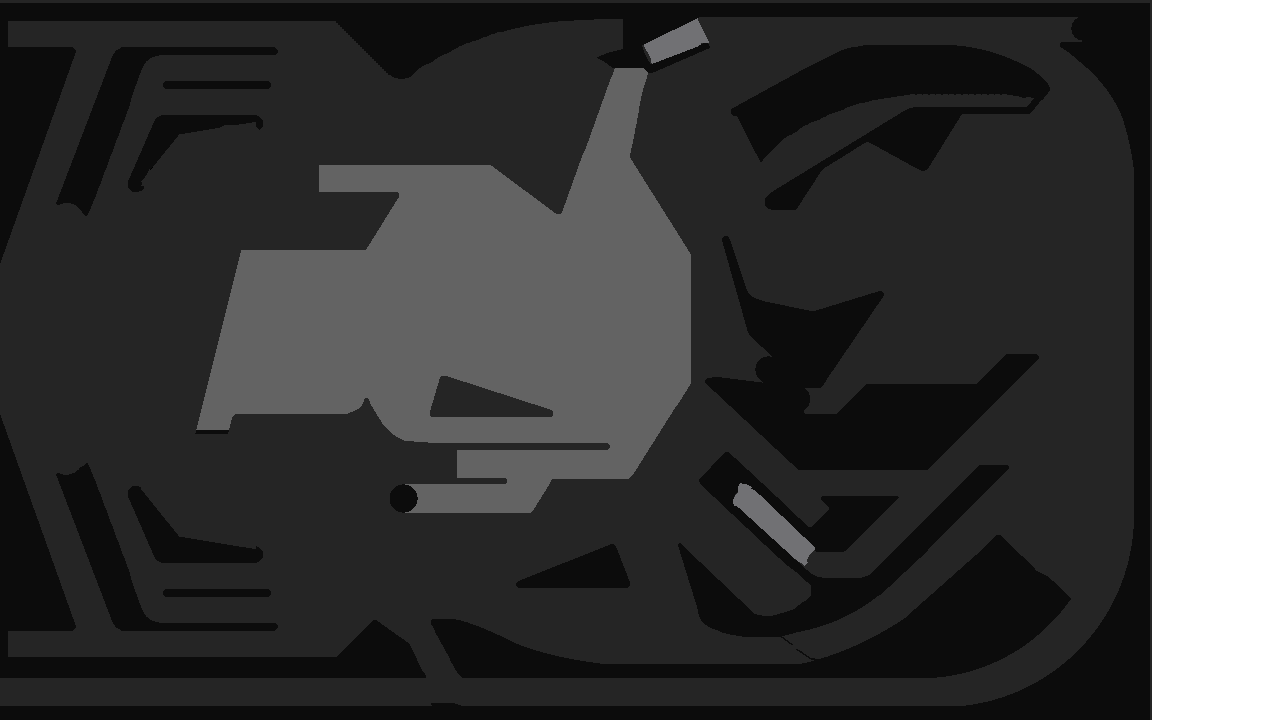
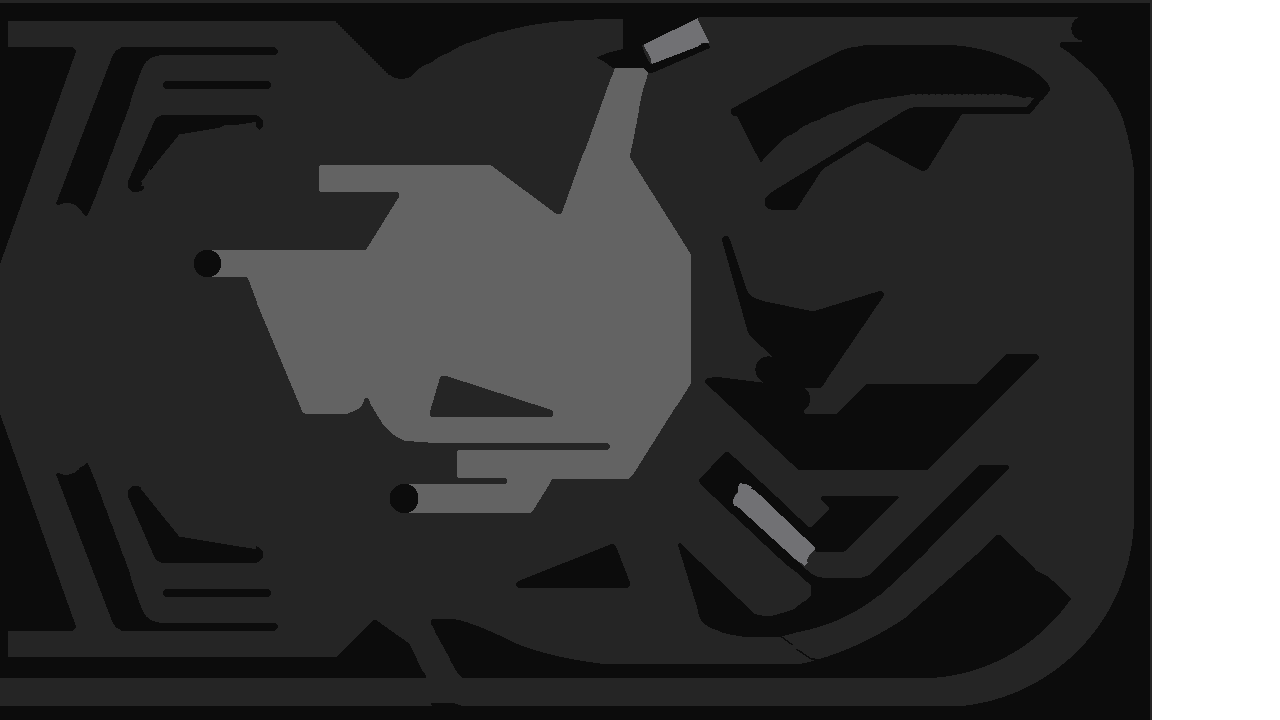
changer underlayer

Changed region(s): [[0.1562, 0.3361, 0.25, 0.6111]]

diff --git a/games/pinball/source/layer.h b/games/pinball/source/layer.h
@@ -22,7 +22,7 @@ class Layer {
         int m_layerID;
 
         // Underlayer
-        vector<float> m_underOuter = {693.0, 6.9, 691.5, 7.8, 682.4, 11.0, 673.2, 14.2, 665.9, 17.9, 658.5, 21.7, 649.9, 26.2, 641.2, 30.7, 636.4, 34.1, 631.5, 37.4, 626.0, 42.0, 620.5, 46.6, 615.8, 49.6, 611.1, 52.5, 607.6, 60.0, 604.1, 67.5, 603.4, 72.0, 602.8, 76.5, 590.8, 110.5, 578.8, 144.5, 577.4, 146.7, 576.0, 148.9, 576.0, 150.4, 576.0, 151.8, 574.5, 154.6, 573.0, 157.5, 442.8, 158.0, 312.5, 158.5, 312.5, 178.5, 312.5, 198.5, 350.1, 199.0, 387.8, 199.5, 374.3, 221.2, 360.8, 243.0, 298.9, 243.0, 237.0, 243.0, 235.7, 245.2, 234.3, 247.5, 214.6, 326.5, 194.9, 405.5, 189.9, 423.5, 184.8, 441.5, 182.9, 448.0, 181.1, 454.5, 179.9, 459.3, 178.8, 464.0, 180.0, 465.5, 181.2, 467.0, 204.9, 467.0, 228.6, 467.0, 229.8, 465.8, 231.0, 464.6, 231.0, 457.2, 231.0, 449.8, 232.6, 443.6, 234.1, 437.5, 236.6, 429.2, 239.1, 421.0, 305.5, 421.0, 371.8, 421.0, 379.4, 433.2, 387.0, 445.5, 388.6, 447.7, 390.3, 450.0, 421.1, 450.0, 452.0, 450.0, 452.0, 464.5, 452.0, 479.0, 418.8, 479.2, 385.5, 479.5, 385.5, 499.0, 385.5, 518.5, 460.1, 518.8, 534.7, 519.0, 537.2, 517.0, 539.7, 515.1, 549.4, 499.6, 559.1, 484.1, 597.4, 483.8, 635.8, 483.5, 637.9, 481.0, 640.0, 478.5, 656.7, 452.0, 673.4, 425.5, 678.5, 418.0, 683.7, 410.5, 690.8, 398.9, 698.0, 387.4, 698.0, 318.9, 698.0, 250.5, 668.6, 203.8, 639.3, 157.1, 639.8, 151.8, 640.2, 146.5, 642.1, 138.2, 644.0, 129.9, 644.0, 127.2, 644.0, 124.4, 645.6, 118.5, 647.2, 112.5, 648.1, 105.5, 649.0, 98.5, 652.1, 87.7, 655.3, 76.9, 661.3, 72.4, 667.3, 67.8, 678.9, 61.7, 690.5, 55.7, 696.5, 54.3, 702.5, 53.0, 707.5, 51.8, 712.5, 50.6, 931.4, 50.1, 1150.3, 49.5, 1151.3, 47.8, 1152.4, 46.2, 1151.1, 44.6, 1149.8, 43.0, 923.1, 43.0, 696.3, 43.0, 676.3, 52.9, 656.3, 62.8, 652.5, 67.4, 648.7, 72.1, 645.8, 80.8, 643.0, 89.5, 641.0, 99.5, 639.0, 109.5, 634.4, 133.3, 629.8, 157.0, 637.1, 168.8, 644.4, 180.5, 667.7, 217.5, 691.0, 254.5, 691.0, 319.0, 691.0, 383.5, 683.6, 395.0, 676.2, 406.5, 654.6, 440.5, 633.1, 474.6, 630.7, 476.8, 628.4, 479.0, 590.4, 479.0, 552.3, 479.0, 546.2, 489.3, 540.1, 499.5, 535.8, 506.0, 531.5, 512.5, 460.8, 512.8, 390.0, 513.0, 390.0, 498.5, 390.0, 484.0, 448.3, 483.8, 506.5, 483.5, 506.5, 481.0, 506.5, 478.5, 481.8, 478.2, 457.0, 478.0, 457.0, 464.0, 457.0, 450.0, 532.6, 449.8, 608.3, 449.5, 609.3, 447.8, 610.4, 446.2, 609.1, 444.6, 607.8, 443.0, 520.8, 443.0, 433.8, 443.0, 419.1, 441.9, 404.5, 440.8, 398.9, 437.8, 393.3, 434.9, 387.8, 429.2, 382.3, 423.5, 376.7, 414.3, 371.1, 405.2, 369.6, 401.5, 368.0, 397.8, 366.3, 398.2, 364.5, 398.5, 364.0, 406.0, 363.5, 413.5, 299.4, 413.8, 235.3, 414.0, 233.5, 416.0, 231.8, 417.9, 228.2, 429.7, 224.7, 441.5, 224.2, 450.7, 223.8, 460.0, 205.5, 460.0, 187.1, 460.0, 188.2, 456.7, 189.2, 453.5, 191.2, 446.1, 193.1, 438.6, 195.4, 431.6, 197.7, 424.5, 219.5, 337.2, 241.2, 250.0, 303.6, 250.0, 365.9, 250.0, 382.5, 223.3, 399.1, 196.6, 398.8, 194.6, 398.5, 192.5, 358.8, 192.2, 319.0, 192.0, 319.0, 178.5, 319.0, 165.0, 404.8, 165.0, 490.6, 165.0, 523.5, 189.5, 556.4, 214.0, 558.8, 214.0, 561.1, 214.0, 562.4, 210.7, 563.8, 207.5, 572.5, 183.0, 581.2, 158.5, 584.0, 152.0, 586.8, 145.5, 597.4, 115.8, 608.0, 86.1, 611.5, 76.8, 615.1, 67.5, 617.2, 63.5, 619.3, 59.5, 623.9, 54.7, 628.5, 50.0, 659.0, 34.1, 689.5, 18.2, 694.0, 15.9, 698.5, 13.5, 923.4, 13.0, 1148.3, 12.5, 1149.3, 10.8, 1150.4, 9.2, 1149.1, 7.6, 1147.8, 6.0, 921.1, 6.0, 694.5, 6.1, 693.0, 6.9};
+        vector<float> m_underOuter = {693.0, 6.9, 691.5, 7.8, 682.4, 11.0, 673.2, 14.2, 665.9, 17.9, 658.5, 21.7, 649.9, 26.2, 641.2, 30.7, 636.4, 34.1, 631.5, 37.4, 626.0, 42.0, 620.5, 46.6, 615.8, 49.6, 611.1, 52.5, 607.6, 60.0, 604.1, 67.5, 603.4, 72.0, 602.8, 76.5, 590.8, 110.5, 578.8, 144.5, 577.4, 146.7, 576.0, 148.9, 576.0, 150.4, 576.0, 151.8, 574.5, 154.6, 573.0, 157.5, 442.8, 158.0, 312.5, 158.5, 312.5, 178.5, 312.5, 198.5, 350.1, 199.0, 387.8, 199.5, 374.4, 221.0, 361.1, 242.5, 280.8, 243.0, 200.5, 243.5, 200.5, 263.5, 200.5, 283.5, 221.1, 283.8, 241.7, 284.0, 243.9, 289.9, 246.0, 295.7, 246.0, 296.8, 246.0, 297.8, 259.1, 329.1, 272.2, 360.4, 274.2, 366.9, 276.2, 373.5, 285.7, 395.0, 295.1, 416.5, 296.6, 418.7, 298.0, 421.0, 334.9, 421.0, 371.8, 421.0, 379.4, 433.2, 387.0, 445.5, 388.6, 447.7, 390.3, 450.0, 421.1, 450.0, 452.0, 450.0, 452.0, 464.5, 452.0, 479.0, 418.8, 479.2, 385.5, 479.5, 385.5, 499.0, 385.5, 518.5, 460.1, 518.8, 534.7, 519.0, 537.2, 517.0, 539.7, 515.1, 549.4, 499.6, 559.1, 484.1, 597.4, 483.8, 635.8, 483.5, 637.9, 481.0, 640.0, 478.5, 656.7, 452.0, 673.4, 425.5, 678.5, 418.0, 683.7, 410.5, 690.8, 398.9, 698.0, 387.4, 698.0, 318.9, 698.0, 250.5, 668.6, 203.8, 639.3, 157.1, 639.8, 151.8, 640.2, 146.5, 642.1, 138.2, 644.0, 129.9, 644.0, 127.2, 644.0, 124.4, 645.6, 118.5, 647.2, 112.5, 648.1, 105.5, 649.0, 98.5, 652.1, 87.7, 655.3, 76.9, 661.3, 72.4, 667.3, 67.8, 678.9, 61.7, 690.5, 55.7, 696.5, 54.3, 702.5, 53.0, 707.5, 51.8, 712.5, 50.6, 931.4, 50.1, 1150.3, 49.5, 1151.3, 47.8, 1152.4, 46.2, 1151.1, 44.6, 1149.8, 43.0, 923.1, 43.0, 696.3, 43.0, 676.3, 52.9, 656.3, 62.8, 652.5, 67.4, 648.7, 72.1, 645.8, 80.8, 643.0, 89.5, 641.0, 99.5, 639.0, 109.5, 634.4, 133.3, 629.8, 157.0, 637.1, 168.8, 644.4, 180.5, 667.7, 217.5, 691.0, 254.5, 691.0, 319.0, 691.0, 383.5, 683.6, 395.0, 676.2, 406.5, 654.6, 440.5, 633.1, 474.6, 630.7, 476.8, 628.4, 479.0, 590.4, 479.0, 552.3, 479.0, 546.2, 489.3, 540.1, 499.5, 535.8, 506.0, 531.5, 512.5, 460.8, 512.8, 390.0, 513.0, 390.0, 498.5, 390.0, 484.0, 448.3, 483.8, 506.5, 483.5, 506.5, 481.0, 506.5, 478.5, 481.8, 478.2, 457.0, 478.0, 457.0, 464.0, 457.0, 450.0, 532.6, 449.8, 608.3, 449.5, 609.3, 447.8, 610.4, 446.2, 609.1, 444.6, 607.8, 443.0, 520.8, 443.0, 433.8, 443.0, 419.1, 441.9, 404.5, 440.8, 398.9, 437.8, 393.3, 434.9, 387.8, 429.2, 382.3, 423.5, 376.7, 414.3, 371.1, 405.2, 369.6, 401.5, 368.0, 397.8, 366.3, 398.2, 364.5, 398.5, 364.0, 406.0, 363.5, 413.5, 333.4, 413.8, 303.4, 414.0, 280.3, 358.8, 257.2, 303.5, 253.5, 293.0, 249.7, 282.5, 248.3, 279.7, 246.9, 277.0, 227.0, 277.0, 207.0, 277.0, 207.0, 263.5, 207.0, 250.0, 286.4, 250.0, 365.9, 250.0, 382.5, 223.3, 399.1, 196.6, 398.8, 194.6, 398.5, 192.5, 358.8, 192.2, 319.0, 192.0, 319.0, 178.5, 319.0, 165.0, 404.8, 165.0, 490.6, 165.0, 523.5, 189.5, 556.4, 214.0, 558.8, 214.0, 561.1, 214.0, 562.4, 210.7, 563.8, 207.5, 572.5, 183.0, 581.2, 158.5, 584.0, 152.0, 586.8, 145.5, 597.4, 115.8, 608.0, 86.1, 611.5, 76.8, 615.1, 67.5, 617.2, 63.5, 619.3, 59.5, 623.9, 54.7, 628.5, 50.0, 659.0, 34.1, 689.5, 18.2, 694.0, 15.9, 698.5, 13.5, 923.4, 13.0, 1148.3, 12.5, 1149.3, 10.8, 1150.4, 9.2, 1149.1, 7.6, 1147.8, 6.0, 921.1, 6.0, 694.5, 6.1, 693.0, 6.9};
         vector<float> m_under1 = {440.0, 378.2, 439.0, 380.5, 434.4, 396.2, 429.9, 411.9, 430.2, 414.2, 430.5, 416.5, 491.5, 416.5, 552.5, 416.5, 552.8, 413.8, 553.1, 411.1, 551.3, 410.2, 549.5, 409.3, 497.9, 392.6, 446.4, 376.0, 443.7, 376.0, 441.0, 376.0, 440.0, 378.2};
         vector<float> m_under2 = {632.1, 155.4, 630.9, 156.9, 621.8, 219.7, 612.8, 282.5, 613.8, 284.0, 614.7, 285.5, 616.3, 285.8, 617.8, 286.1, 647.7, 249.3, 677.6, 212.5, 679.9, 209.2, 682.2, 206.0, 681.8, 205.0, 681.5, 203.9, 658.6, 179.0, 635.8, 154.0, 634.5, 154.0, 633.2, 154.0, 632.1, 155.4};
         vector<vector<float>> m_underLayer = {

diff --git a/games/pinball/source/balllock.h b/games/pinball/source/balllock.h
@@ -35,7 +35,7 @@ class BallLock {
         vector<float> m_leftLock = {1086.2, 23.2, 1085.0, 24.4, 1085.0, 27.5, 1085.0, 30.6, 1086.2, 31.8, 1087.4, 33.0, 1090.5, 33.0, 1093.6, 33.0, 1094.8, 31.8, 1096.0, 30.6, 1096.0, 27.5, 1096.0, 24.4, 1094.8, 23.2, 1093.6, 22.0, 1090.5, 22.0, 1087.4, 22.0, 1086.2, 23.2};
         vector<float> m_middleLock = {772.5, 364.9, 770.5, 365.8, 768.0, 368.5, 765.5, 371.2, 765.5, 376.6, 765.5, 382.0, 768.7, 385.1, 771.9, 388.3, 777.4, 388.8, 782.9, 389.2, 785.9, 385.9, 788.9, 382.6, 789.6, 379.7, 790.2, 376.8, 789.6, 373.6, 789.0, 370.4, 786.1, 367.6, 783.2, 364.8, 778.8, 364.4, 774.5, 364.0, 772.5, 364.9};
         vector<float> m_upperMiddleLock = {779.0, 398.4, 779.0, 411.0, 782.1, 411.0, 785.1, 411.0, 788.0, 407.8, 790.9, 404.6, 791.6, 401.7, 792.2, 398.8, 791.6, 395.6, 791.0, 392.4, 788.2, 389.7, 785.4, 387.0, 782.2, 386.4, 779.0, 385.7, 779.0, 398.4};
-        vector<float> m_lowerLock1 = {186.4, 454.4, 185.8, 455.9, 186.2, 457.7, 186.5, 459.5, 206.5, 459.5, 226.5, 459.5, 226.5, 456.5, 226.5, 453.5, 206.7, 453.2, 187.0, 453.0, 186.4, 454.4};
+        vector<float> m_lowerLock1 = {204.4, 262.4, 203.8, 263.9, 204.2, 265.7, 204.5, 267.5, 207.5, 267.5, 210.5, 267.5, 210.5, 264.5, 210.5, 261.5, 207.7, 261.2, 205.0, 260.9, 204.4, 262.4};
         vector<float> m_lowerLock2 = {386.0, 499.0, 386.0, 518.0, 397.5, 518.0, 409.0, 518.0, 409.0, 499.0, 409.0, 480.0, 397.5, 480.0, 386.0, 480.0, 386.0, 499.0};
         vector<float> m_railLock1 = {805.5, 433.5, 803.0, 435.9, 803.0, 439.5, 803.0, 443.1, 805.5, 445.5, 807.9, 448.0, 811.5, 448.0, 815.1, 448.0, 817.5, 445.5, 820.0, 443.1, 820.0, 439.5, 820.0, 435.9, 817.5, 433.5, 815.1, 431.0, 811.5, 431.0, 807.9, 431.0, 805.5, 433.5};
         vector<vector<float>> m_points = {
